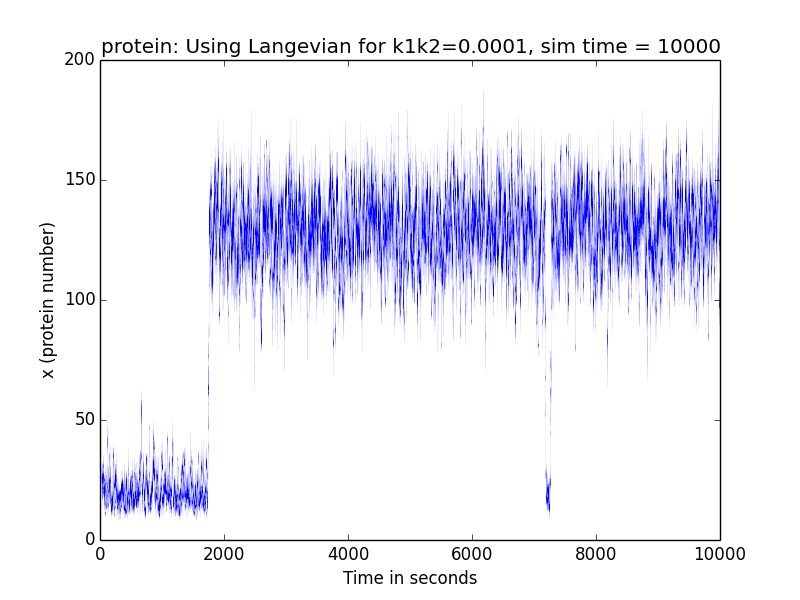
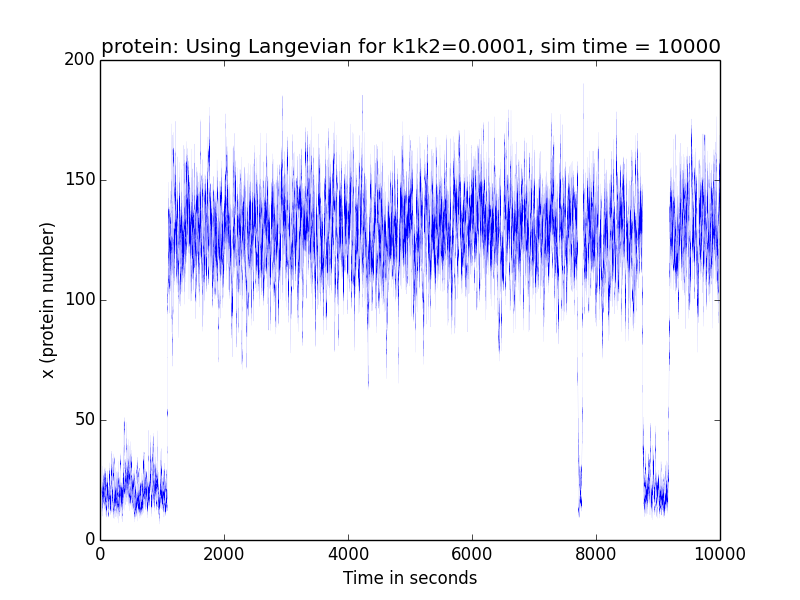
This got four state transitions. Fixed the misleading paths in script.
Fixed the paths in assignment.

Former-commit-id: 503ad9f8788725e47390700e597358c69667fa77
Former-commit-id: 5783e65446bc45e88a9b7d76ab0316f0301071a4

diff --git a/RandomnessInBiology_Monsoon_2014/Assignment07/solve.py b/RandomnessInBiology_Monsoon_2014/Assignment07/solve.py
@@ -16,6 +16,8 @@ __status__           = "Development"
 
 import numpy as np
 import sys
+import matplotlib as mpl
+import matplotlib.pyplot as plt
 
 class GeneticSwitch():
 
@@ -112,50 +114,46 @@ class GeneticSwitch():
 
     def plotTrajectories(self, nos = -1, save = True):
         """Plot total number of trajectories """
-        import pylab
         if nos == -1: nos = len(self.trajectories)
-        pylab.figure()
+        plt.figure()
         for trajectory in self.trajectories[:nos]:
             x = [ (self.cutoff + i) * self.step for i in range(len(trajectory)) ]
-            pylab.plot(x, trajectory)
-        pylab.xlabel("Time in seconds")
-        pylab.ylabel("x (protein number)")
-        pylab.title("#protein: Using Langevian for k1k2={}, sim time = {}".format(
+            plt.plot(x, trajectory, linewidth=0.04)
+        plt.xlabel("Time in seconds")
+        plt.ylabel("x (protein number)")
+        plt.title("protein: Using Langevian for k1k2={}, sim time = {}".format(
             self.k1k2, self.stop)
             )
         if save:
-            pylab.savefig('langevin_trajectories_{:.2e}.png'.format(gs.k1k2))
+            plt.savefig('final_pics/langevin_trajectories_{:.0e}.png'.format(self.k1k2))
         else:
-            pylab.show()
+            plt.show()
 
     def plotHistogram(self, save = False):
         """Plot a histogram """
-        import pylab
-        pylab.figure()
+        plt.figure()
         collectedOutput = np.array([])
         for trajectory in self.trajectories:
-            np.append(collectedOutput, trajectory)
-
+            collectedOutput = np.append(collectedOutput, trajectory)
         hist, bins = np.histogram(collectedOutput, bins=100)
-        pylab.bar(bins[:-1], hist)
-        pylab.xlabel("#protein (x)")
-        pylab.ylabel("No of times x protein is seen")
-        pylab.title(
+        plt.bar(bins[:-1], hist)
+        plt.xlabel("#protein (x)")
+        plt.ylabel("No of times x protein is seen")
+        plt.title(
                 "Distribution of #protein for k1k2={}, simulation time={} sec".format(
                     self.k1k2, self.stop
                     )
                 )
         if save:
-            pylab.savefig('distibution_{:.2e}.png'.format(self.k1k2))
+            plt.savefig('final_pics/distribution_{:.0e}.png'.format(self.k1k2))
         else:
-            pylab.show()
+            plt.show()
 
 def main():
-    import pylab
     gs = GeneticSwitch(k1k2=1e-4, init=0)
-    gs.run(step = 0.001, stop = 1000, ntimes = 1)
-    gs.plotTrajectories(save = False)
-    #gs.plotHistogram()
+    gs.run(step = 0.01, stop = 10000, ntimes = 1)
+    gs.plotTrajectories(save = True)
+    gs.plotHistogram( save = True)
 
 if __name__ == '__main__':
     main()
